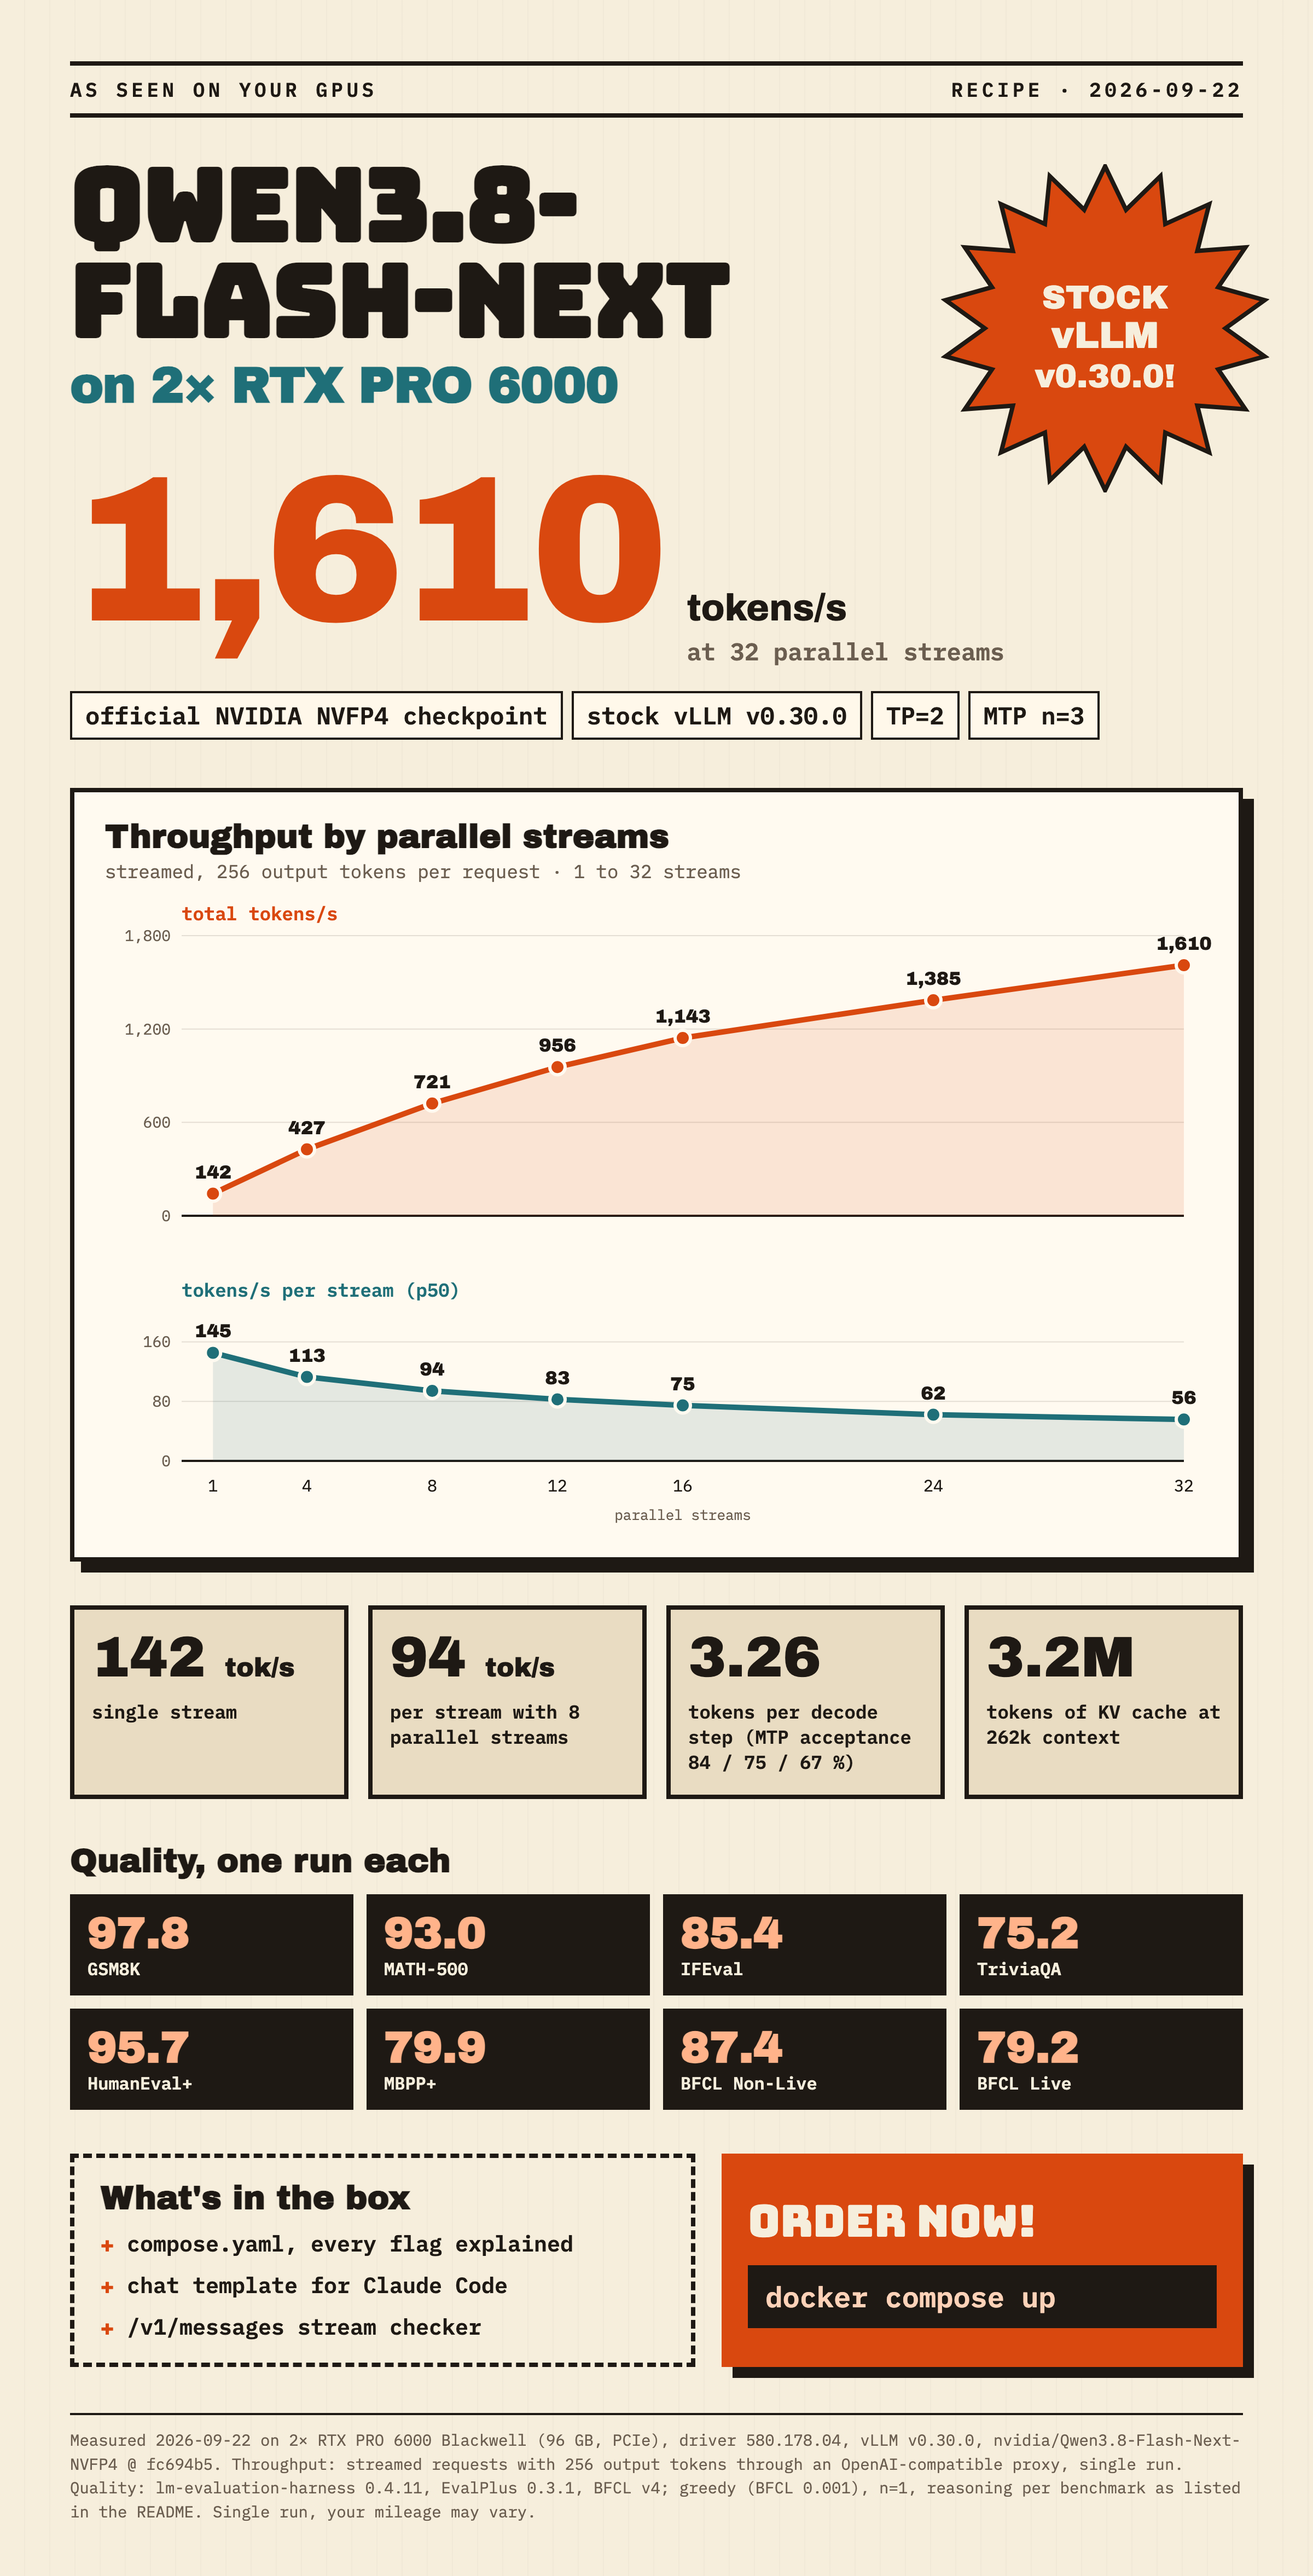
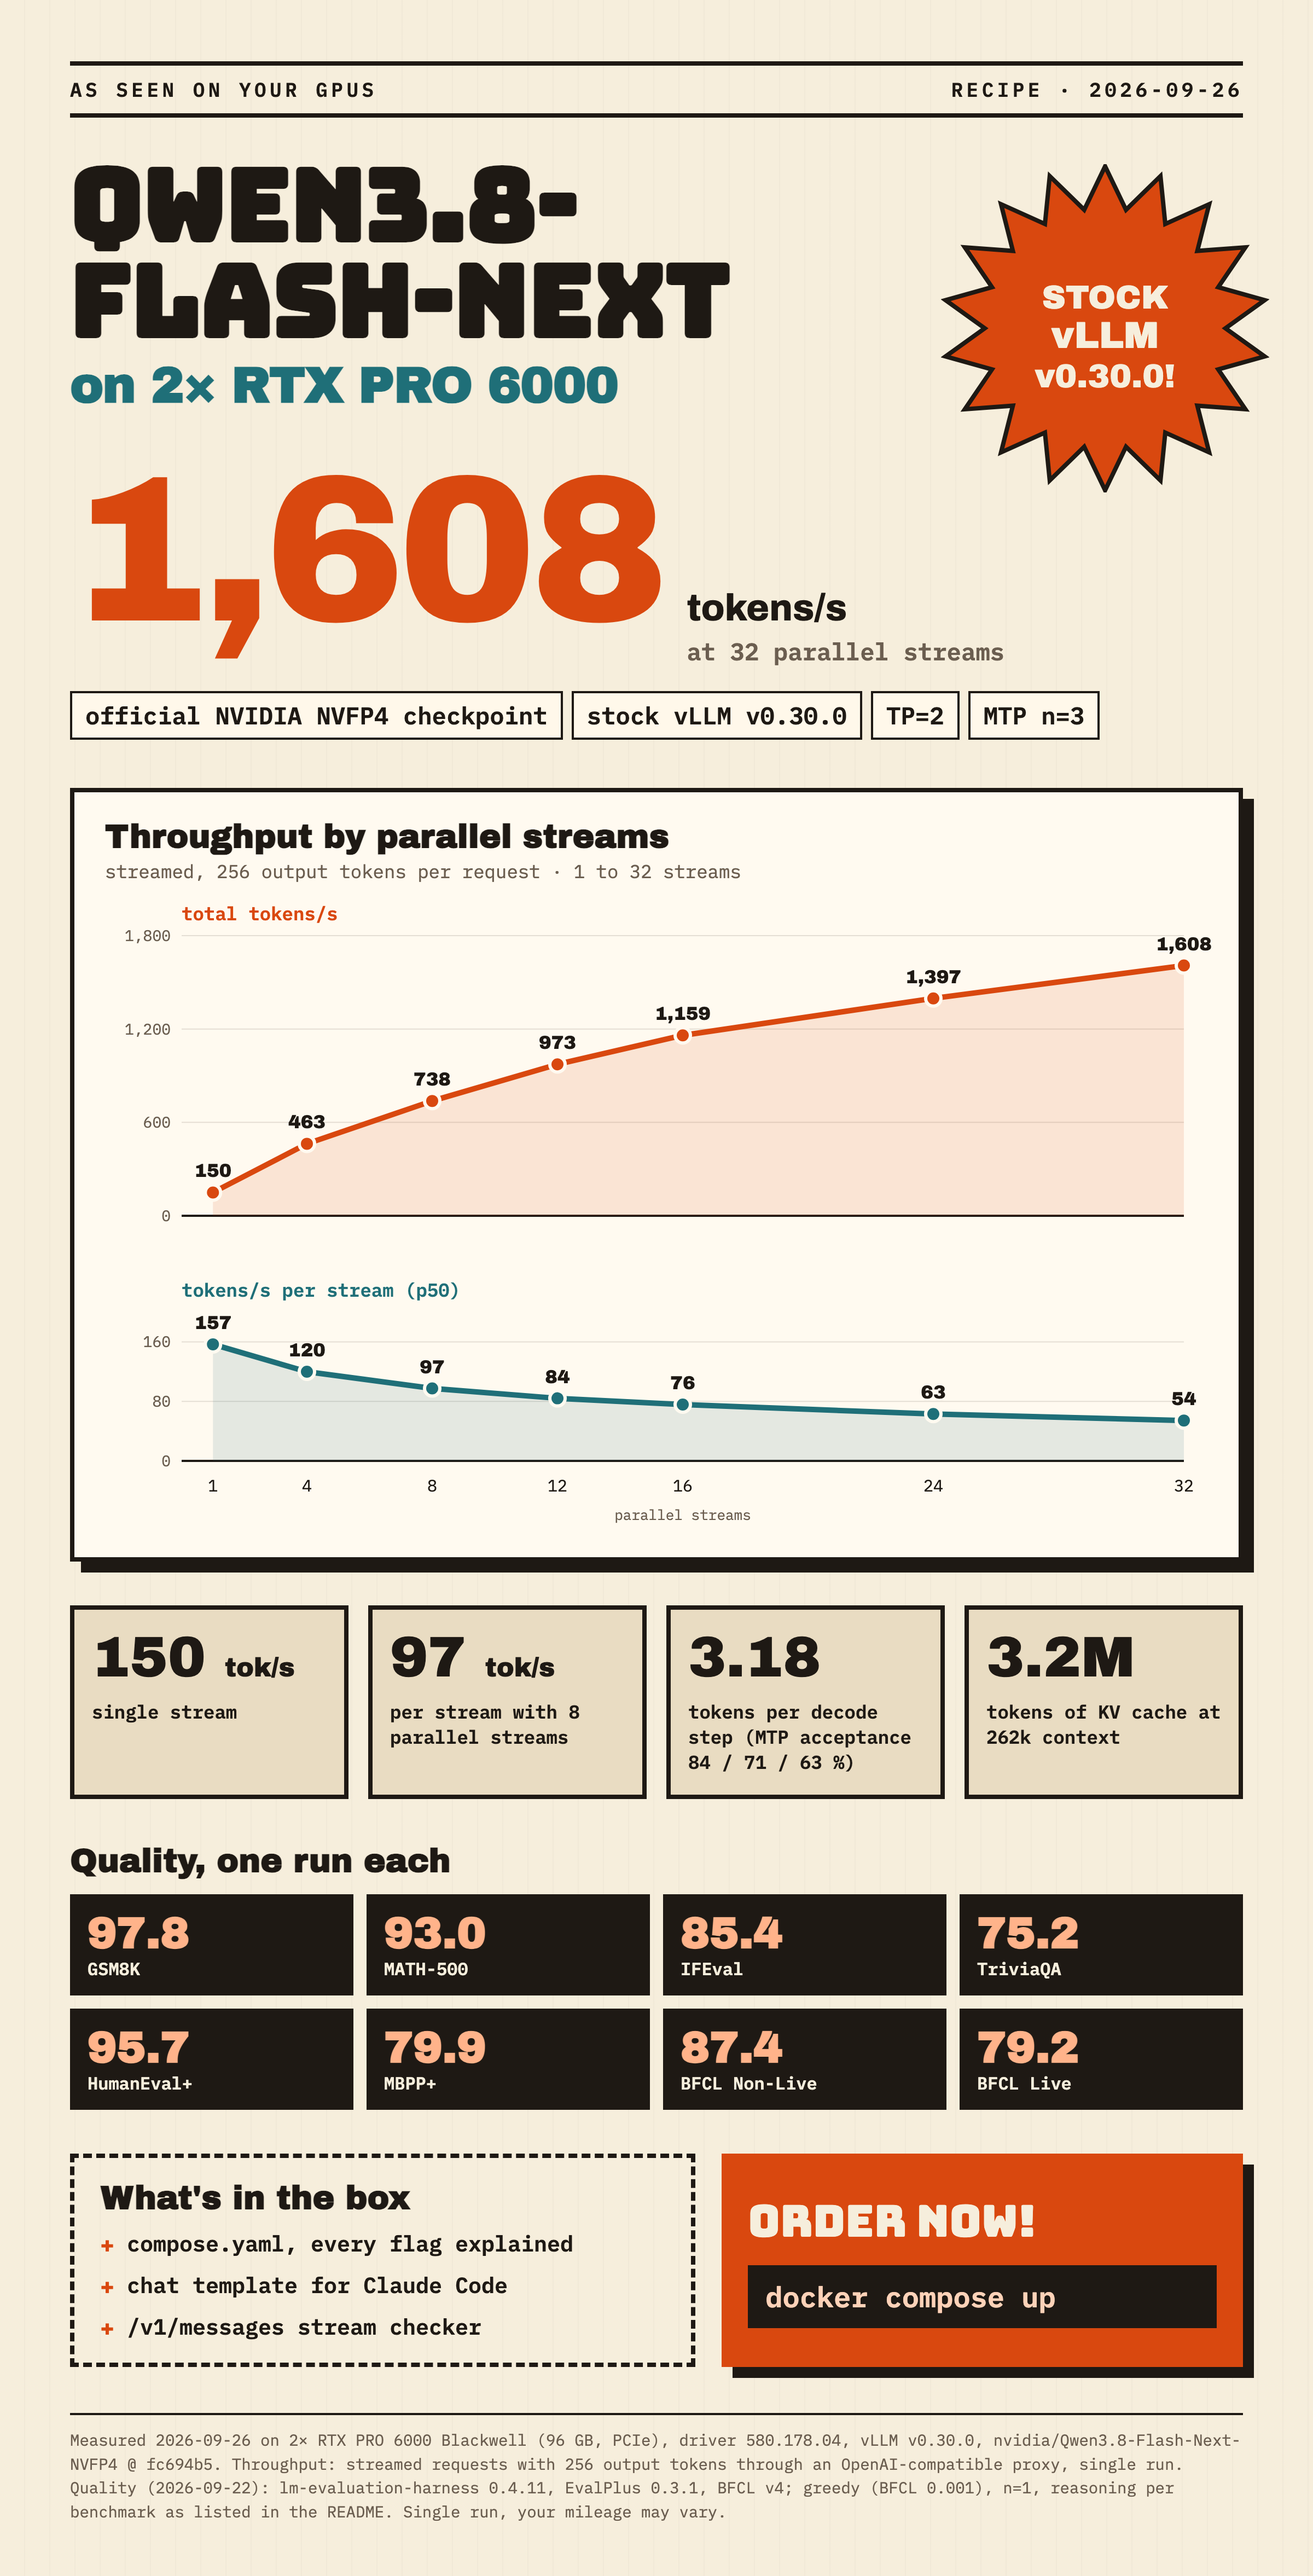
Probabilistic MTP drafting, results of 2026-09-26
- compose: "draft_sample_method": "probabilistic" in the speculative config
- README: flag explained, throughput table and a new prefill table from the
  2026-09-26 run, MTP acceptance 83.9/71.4/62.6 % (3.18 tokens per step),
  KV cache 3,203,824 tokens; quality scores unchanged (2026-09-22)
- poster: new numbers and date

diff --git a/assets/poster.html b/assets/poster.html
@@ -51,7 +51,7 @@
 </head>
 <body>
 <div class="poster">
-  <div class="band"><span>As seen on your GPUs</span><span>Recipe · 2026-09-22</span></div>
+  <div class="band"><span>As seen on your GPUs</span><span>Recipe · 2026-09-26</span></div>
 
   <h1>QWEN3.8-<br>FLASH-NEXT<span class="on">on 2× RTX PRO 6000</span></h1>
 
@@ -62,7 +62,7 @@
   </svg>
 
   <div class="hero">
-    <div class="num">1,610</div>
+    <div class="num">1,608</div>
     <div class="unit">tokens/s<small>at 32 parallel streams</small></div>
   </div>
   <div class="sub">
@@ -77,9 +77,9 @@
   </div>
 
   <div class="tiles">
-    <div class="tile"><div class="v">142 <small>tok/s</small></div><div class="l">single stream</div></div>
-    <div class="tile"><div class="v">94 <small>tok/s</small></div><div class="l">per stream with 8 parallel streams</div></div>
-    <div class="tile"><div class="v">3.26</div><div class="l">tokens per decode step (MTP acceptance 84 / 75 / 67 %)</div></div>
+    <div class="tile"><div class="v">150 <small>tok/s</small></div><div class="l">single stream</div></div>
+    <div class="tile"><div class="v">97 <small>tok/s</small></div><div class="l">per stream with 8 parallel streams</div></div>
+    <div class="tile"><div class="v">3.18</div><div class="l">tokens per decode step (MTP acceptance 84 / 71 / 63 %)</div></div>
     <div class="tile"><div class="v">3.2M</div><div class="l">tokens of KV cache at 262k context</div></div>
   </div>
 
@@ -113,15 +113,15 @@
   </div>
 
   <div class="fine">
-    Measured 2026-09-22 on 2× RTX PRO 6000 Blackwell (96 GB, PCIe), driver 580.178.04, vLLM v0.30.0,
+    Measured 2026-09-26 on 2× RTX PRO 6000 Blackwell (96 GB, PCIe), driver 580.178.04, vLLM v0.30.0,
     nvidia/Qwen3.8-Flash-Next-NVFP4 @ fc694b5. Throughput: streamed requests with 256 output tokens through an
-    OpenAI-compatible proxy, single run. Quality: lm-evaluation-harness 0.4.11, EvalPlus 0.3.1, BFCL v4; greedy
+    OpenAI-compatible proxy, single run. Quality (2026-09-22): lm-evaluation-harness 0.4.11, EvalPlus 0.3.1, BFCL v4; greedy
     (BFCL 0.001), n=1, reasoning per benchmark as listed in the README. Single run, your mileage may vary.
   </div>
 </div>
 
 <script>
-const DATA = [[1, 142.1, 145.3], [4, 427.1, 112.8], [8, 721.4, 94.1], [12, 955.6, 82.7], [16, 1142.5, 74.6], [24, 1384.9, 62.1], [32, 1610.4, 55.7]];
+const DATA = [[1, 149.7, 156.7], [4, 462.7, 119.8], [8, 737.8, 97.4], [12, 973.2, 84.1], [16, 1159.4, 75.8], [24, 1396.9, 63.0], [32, 1608.1, 54.3]];
 const NS = 'http://www.w3.org/2000/svg';
 function el(parent, tag, attrs, text) {
   const e = document.createElementNS(NS, tag);

diff --git a/README.md b/README.md
@@ -4,9 +4,9 @@
 
 A tested vLLM configuration for the official NVIDIA NVFP4 checkpoint of Qwen3.8-Flash-Next on
 two RTX PRO 6000 Blackwell cards, with stock vLLM v0.30.0, tensor parallelism 2 and the model's
-built-in multi-token prediction (MTP) with 3 speculative tokens.
+built-in multi-token prediction (MTP) with 3 speculative tokens and probabilistic drafting.
 
-## Tested setup (2026-09-22)
+## Tested setup (2026-09-26)
 
 | | |
 |---|---|
@@ -17,7 +17,7 @@ built-in multi-token prediction (MTP) with 3 speculative tokens.
 | Image | `vllm/vllm-openai:v0.30.0@sha256:8a69ffad015f138d7170c4ddc429e230a3bc1c1719f67e14324749df200a4b90` |
 | Model | `nvidia/Qwen3.8-Flash-Next-NVFP4` @ `fc694b54fb0174e0913e6adf86691ef85a4ead47` |
 | Weights on GPU | 39.3 GiB per card |
-| KV cache | 3,209,492 tokens (context 262,144, `gpu_memory_utilization` 0.95) |
+| KV cache | 3,203,824 tokens (context 262,144, `gpu_memory_utilization` 0.95) |
 | Host memory | about 65 GB shared memory in use (per-layer embeddings offloaded to the CPU) |
 
 Reasoning, tool calling and image input work with this configuration.
@@ -53,7 +53,7 @@ cards are enumerated differently. The configuration needs exactly two GPUs.
 |---|---|
 | `--quantization modelopt` | The checkpoint is an NVIDIA ModelOpt mixed-precision checkpoint (NVFP4 experts, FP8 MTP experts and per-layer embeddings). |
 | `--tensor-parallel-size 2`, `--enable-expert-parallel` | Split the model across both cards, experts sharded by expert parallelism. |
-| `--speculative-config {"method": "mtp", "num_speculative_tokens": 3}` | Use the checkpoint's built-in MTP module. |
+| `--speculative-config {"method": "mtp", "num_speculative_tokens": 3, "draft_sample_method": "probabilistic"}` | Use the checkpoint's built-in MTP module. `"draft_sample_method": "probabilistic"` samples the draft tokens from the draft model's distribution instead of taking its most likely token. Requests with temperature > 0 accept more draft tokens; the output distribution stays the same (standard rejection sampling, the default). |
 | `--gpu-memory-utilization 0.95` | Share of each card vLLM may use; the rest of the 96 GB beyond the weights becomes KV cache. |
 | `--max-model-len 262144` | The model's native context length. |
 | `--max-num-seqs 32` | Up to 32 concurrent requests; more are queued. |
@@ -133,26 +133,41 @@ The last line should end with `0/30 streams with violations or errors`.
 ### Throughput
 
 Streamed requests with a fixed output length of 256 tokens, sent through an OpenAI-compatible
-proxy. Single run, 2026-09-22.
+proxy. Single run, 2026-09-26.
 
 | Parallel streams | Total tok/s | Per stream p50 tok/s | TTFT p50 ms | ITL p50 ms |
 |---|---|---|---|---|
-| 1 | 142 | 145 | 114 | 6.4 |
-| 4 | 427 | 113 | 168 | 8.2 |
-| 8 | 721 | 94 | 168 | 10.0 |
-| 12 | 956 | 83 | 168 | 11.4 |
-| 16 | 1,143 | 75 | 177 | 12.7 |
-| 24 | 1,385 | 62 | 202 | 15.3 |
-| 32 | 1,610 | 56 | 250 | 16.9 |
+| 1 | 150 | 157 | 119 | 5.9 |
+| 4 | 463 | 120 | 155 | 7.7 |
+| 8 | 738 | 97 | 159 | 9.6 |
+| 12 | 973 | 84 | 172 | 11.2 |
+| 16 | 1,159 | 76 | 221 | 12.3 |
+| 24 | 1,397 | 63 | 201 | 15.1 |
+| 32 | 1,608 | 54 | 223 | 17.5 |
 
-The speed depends on the content. MTP predicts code better than prose. During code generation we
-observed about 200 tok/s for a single stream; that figure is an observation, not part of the
-measurement above.
+The speed depends on the content. MTP predicts code better than prose. Measured directly at the
+server (no proxy), a single stream decoded code at 237 tok/s and free-form prose at 174 tok/s
+(median of 6 requests each, 512 output tokens, temperature 1.0, top_p 0.95, top_k 20).
 
-MTP acceptance per draft position: 84.2 %, 74.6 %, 67.1 %, which gives 3.26 tokens per decode
-step on average. Measured on 2026-09-22 over a mixed set of test prompts (long-context text,
+MTP acceptance per draft position: 83.9 %, 71.4 %, 62.6 %, which gives 3.18 tokens per decode
+step on average. Measured on 2026-09-26 over a mixed set of test prompts (long-context text,
 verbatim copying, tool calls, code edits). Acceptance depends strongly on the content: expect
 less for free-form chat, more for code.
+
+### Prefill
+
+One request at a time, 2026-09-26. Cold: a new prompt without a prefix-cache hit; prefill speed =
+prompt tokens / (TTFT − 114 ms), where 114 ms is the TTFT of a 512-token prompt. Cached: the same
+prompt again, served from the prefix cache.
+
+| Prompt tokens | Cold TTFT ms | Cold prefill tok/s | Cached TTFT ms |
+|---|---|---|---|
+| 4k | 317 | 19,836 | 194 |
+| 8k | 566 | 17,724 | 333 |
+| 16k | 1,079 | 16,990 | 382 |
+| 32k | 2,050 | 16,864 | 357 |
+| 64k | 3,924 | 17,162 | 497 |
+| 128k | 7,990 | 16,644 | 1,154 |
 
 ### Quality
 
@@ -167,7 +182,9 @@ less for free-form chat, more for code.
 | BFCL Non-Live | 87.4 |
 | BFCL Live | 79.2 |
 
-Method: one run per benchmark (n=1), requests through an OpenAI-compatible proxy.
+Method: one run per benchmark (n=1), requests through an OpenAI-compatible proxy, measured on
+2026-09-22 with the same configuration except `draft_sample_method`, which does not change the
+output distribution.
 - lm-evaluation-harness 0.4.11 (chat completions, chat template applied, few-shot as multi-turn):
   GSM8K 5-shot strict-match, MATH-500 0-shot with a `\boxed{}` prompt and boxed-answer extraction,
   IFEval prompt-level strict, TriviaQA 5-shot exact match. Greedy.
